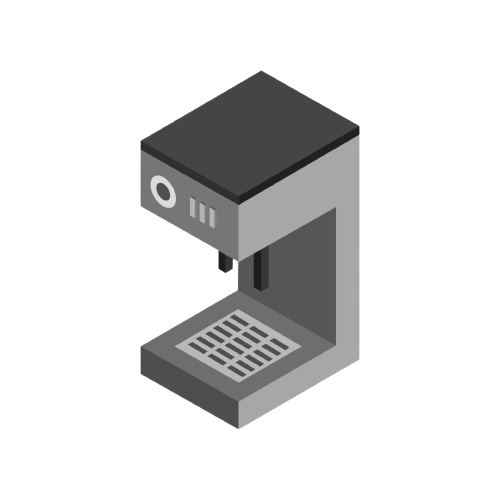
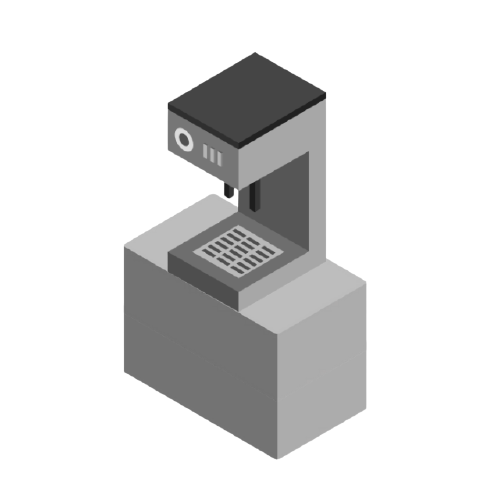
UI improvements

Changed region(s): [[0.24, 0.09, 0.75, 0.93]]

diff --git a/cafe.py b/cafe.py
@@ -5,14 +5,14 @@
 # waiter image: https://www.iconfinder.com/icons/6655714/barista_cartoon_girl_isometric_love_party_woman_icon
 # coffee machine image: https://www.vecteezy.com/vector-art/1983572-isometric-coffee-machine-illustrated-on-white-background
 # counter image: https://www.google.com/url?sa=i&url=https%3A%2F%2Fwww.freepik.com%2Fpremium-vector%2Fcoffee-house-isometric-illustration-coffeeshop-counter-tables-with-chairs-isolated-clipart_10912455.htm&psig=AOvVaw27CZ0GuBOpJH4o8THG1Cgs&ust=1637440249975000&source=images&cd=vfe&ved=0CAsQjRxqFwoTCPiCg7mipfQCFQAAAAAdAAAAABAP
-# table image: https://www.google.com/url?sa=i&url=https%3A%2F%2Fwww.vectorstock.com%2Froyalty-free-vector%2Fwood-table-icon-isometric-style-vector-27067678&psig=AOvVaw1FrR5KlcPIY6L6suhatLl-&ust=1637722650771000&source=images&cd=vfe&ved=0CAsQjRxqFwoTCNiRxsG_rfQCFQAAAAAdAAAAABAS
+# table image: https://www.iconfinder.com/icons/6656008/cartoon_folding_hand_isometric_retro_round_table_icon
 # sun image: https://www.flaticon.com/packs/nature-92
 # moon image: https://www.flaticon.com/premium-icon/moon_1888300?related_id=1888300&origin=pack
 # timer image: https://www.google.com/imgres?imgurl=https%3A%2F%2Fwww.xmple.com%2Fwallpaper%2Forange-blue-gradient-linear-1920x1080-c2-0000cd-ff8c00-a-45-f-14.svg&imgrefurl=https%3A%2F%2Fwww.xmple.com%2Fwallpaper%2Forange-blue-gradient-linear--c2-0000cd-ff8c00-a-45-f-14-image%2F&tbnid=Bn41Fc6ZA9X_JM&vet=12ahUKEwjag47pv630AhWLBc0KHW1cAkoQMygOegUIARDyAQ..i&docid=CCYxh7MBUtbZdM&w=1920&h=1080&itg=1&q=orange%20blue%20gradient&ved=2ahUKEwjag47pv630AhWLBc0KHW1cAkoQMygOegUIARDyAQ
 # people images: https://www.google.com/url?sa=i&url=https%3A%2F%2Fwww.dreamstime.com%2Fcreative-pack-isometric-people-flat-icons-providing-awesome-features-human-avatars-performing-various-activities-image125598730&psig=AOvVaw2gdVQ-_yHhfKPwtFq5cX0K&ust=1637723158290000&source=images&cd=vfe&ved=0CAsQjRxqFwoTCJjx9KvArfQCFQAAAAAdAAAAABAD
 # help image: https://www.flaticon.com/premium-icon/help_2550424?term=help%20button&page=1&position=80&page=1&position=80&related_id=2550424&origin=search
 # menu image: https://www.flaticon.com/premium-icon/help_2550424?term=help%20button&page=1&position=80&page=1&position=80&related_id=2550424&origin=search
-
+# plant image: https://www.flaticon.com/free-icon/plant_628283#
 # pathfinding: https://medium.com/@nicholas.w.swift/easy-a-star-pathfinding-7e6689c7f7b2
 
 # import modules
@@ -41,10 +41,9 @@ VIEW
 # draw canvas
 def cafeMode_redrawAll(app, canvas):
     # draw cafe grid
-    canvas.create_rectangle(0, 0, app.width, app.height, fill="lightblue", width=1)
-    drawLayout(app, canvas)
-    # draw menu
-    canvas.create_image(app.menu.x, app.menu.y, image=app.menu.img)
+    canvas.create_rectangle(0, 0, app.width, app.height, fill="#FFE9DF", width=1)
+    canvas.create_image(app.width/2, app.height/2, image=app.floorImg)
+    # drawLayout(app, canvas)
     # draw instructions 
     canvas.create_image(605, 35, image=app.helpImg)
     # draw score progress bar 
@@ -58,7 +57,6 @@ def cafeMode_redrawAll(app, canvas):
         canvas.create_line(590,120+(app.time/app.gameTime)*400,620,120+(app.time/app.gameTime)*400, fill="lightblue", width=2)
     canvas.create_image(605, 95, image=app.sunImg)
     canvas.create_image(605, 545, image=app.moonImg)
-    
 
     # draw barista
     canvas.create_image(app.barista.x, app.barista.y, image=app.barista.img)
@@ -72,9 +70,16 @@ def cafeMode_redrawAll(app, canvas):
     if app.closeCofMac:
         canvas.create_text(app.width/2, 35, text="Press enter to make drinks!")
     # draw tables
-    for i in range(0, random.randint(1,5)):
-        canvas.create_image(app.table.x, app.table.y, image=app.table.img)
-
+    for table in app.tables:
+        canvas.create_image(table.x, table.y, image=table.img)
+    canvas.create_image(345, 145, image=app.counterImg)
+    # draw plants
+    for x in range(95, 555, 50):
+        canvas.create_image(x, 95, image=app.plantImg)
+        canvas.create_image(x, 545, image=app.plantImg)
+     # draw menu
+    canvas.create_image(app.menu.x, app.menu.y, image=app.menu.img)
+    
     # draw order text
     if app.isOrdering:
         canvas.create_text(app.width/2, 35, text=app.currCustomer.order)
@@ -102,28 +107,28 @@ def getCellBounds(app, row, col):
 
     return [x1,y1,x2,y2]
 
-# helper: get cell from coordinates
-def getRow(app, y):
-    row = int((y - app.margin) / app.cellSize)
-    return row
-
-def getCol(app, x):
-    col = int((x - app.margin) / app.cellSize)
-    return col
 
 '''''''''''''''''''''''''''''''''
 CONTROLLER
 '''''''''''''''''''''''''''''''''
 def cafeMode_timerFired(app):
     # set up board
-    app.board = [([app.emptyColor] * app.cols) for row in range(app.rows)]
-    app.boardGrid = [([0] * app.cols) for row in range(app.rows)]
-    app.boardGrid[getRow(app, app.cofMac.y)][getCol(app, app.cofMac.x)] = 1
-    app.boardGrid[getRow(app, app.table.y-25)][getCol(app, app.table.x-25)] = 1
-    app.board[getRow(app, app.barista.y)][getCol(app, app.barista.x)] = "blue"
-    app.boardGrid[getRow(app, app.barista.y)][getCol(app, app.barista.x)] = 1
-    app.board[getRow(app, app.waiter.y)][getCol(app, app.waiter.x)] = "orchid"
-    app.boardGrid[getRow(app, app.waiter.y)][getCol(app, app.waiter.x)] = 1
+    # app.board = [([app.emptyColor] * app.cols) for row in range(app.rows)]
+    # app.boardGrid = [([0] * app.cols) for row in range(app.rows)]
+    # app.boardGrid[getRow(app, app.cofMac.y)][getCol(app, app.cofMac.x)] = 1
+    # for table in app.tables:
+    #     app.boardGrid[getRow(app, table.y)][getCol(app, table.x)] = 1
+    #     print(app.boardGrid)
+    # app.board[getRow(app, app.barista.y)][getCol(app, app.barista.x)] = "blue"
+    # app.boardGrid[getRow(app, app.barista.y)][getCol(app, app.barista.x)] = 1
+    # app.board[getRow(app, app.waiter.y)][getCol(app, app.waiter.x)] = "orchid"
+    # app.boardGrid[getRow(app, app.waiter.y)][getCol(app, app.waiter.x)] = 1
+    for row in range(10):
+        for col in range(10):
+            if row == getRow(app,app.activeChar.y) and col == getCol(app,app.activeChar.x):
+                app.board[row][col] = "blue"
+            else:
+                app.board[row][col] = app.emptyColor
 
     # indicate position on board as filled
     if app.currCustomer != None:
@@ -141,19 +146,23 @@ def cafeMode_timerFired(app):
         print(app.difficulty)
         print(app.drinksShown)
         print(app.scoreThresh)
-        # difficulty level changes if player becomes better/worse
+        # difficulty level changes if player becomes better/worse 
+        # changes number of drinks, score threshold, time order is shown, number of tables (obstacles)
         if app.difficulty[-1] == "easy":
             app.drinksShown = max(app.drinksShown-1, 2)
             app.scoreThresh = min(app.scoreThresh+0.1, 0.6)
             app.orderTime = min(app.orderTime+50, 600)
+            app.tableNo = max(app.tableNo-1, 2)
         if app.difficulty[-1] == "normal":
             app.drinksShown = 4
             app.scoreThresh = 0.4
             app.orderTime = 400
+            app.tableNo = 5
         if app.difficulty[-1] == "hard":
             app.drinksShown = min(app.drinksShown+1, 7)
             app.scoreThresh = max(app.scoreThresh-0.1, 0.2)
             app.orderTime = max(app.orderTime-50, 300)
+            app.tableNo = min(app.tableNo+1, 7)
 
     # count down timer increases
     app.time += 1
@@ -167,7 +176,7 @@ def cafeMode_timerFired(app):
     # customer enters
     if app.isEntering:
         app.currCustomer.x += 10
-        if app.currCustomer.x >= app.barista.x - 50:
+        if app.currCustomer.x >= app.barista.x - 100:
             app.isEntering = False
             app.isOrdering = True
     # show order 
@@ -269,7 +278,7 @@ def moveChar(app, drow, dcol):
 # helper fn: check if move can be made (not out of bounds)
 def moveIsLegal(app):
     char = app.activeChar
-    if char.x >= 70 and char.x <= 570 and char.y>= 70 and char.y<=570:
+    if (app.boardGrid[getRow(app, char.y)][getCol(app, char.x)] == 0) and char.x >= 70 and char.x <= 570 and char.y>= 120 and char.y<=570:
         return True
     return False
 
@@ -315,10 +324,10 @@ def pathfinding(app, start, end):
             node_position = (current_node.position[0] + new_position[0], current_node.position[1] + new_position[1])
 
             # check legality of move in board
-            if node_position[0] > 545 or node_position[0] < 95 or node_position[1] > 545 or node_position[1] < 95:
-                print("out of bounds")
-                continue
-            if app.boardGrid[getRow(app, node_position[0])][getCol(app, node_position[1])] != 0:
+            # if node_position[0] > 545 or node_position[0] < 95 or node_position[1] > 545 or node_position[1] < 95:
+            #     print("out of bounds")
+            #     continue
+            if app.boardGrid[getRow(app, node_position[0]-25)][getCol(app, node_position[1]-25)] != 0:
                 continue
 
             # Create new node

diff --git a/main.py b/main.py
@@ -39,7 +39,7 @@ def appStarted(app):
     app.day = 1
     app.difficulty = ["normal"]
 
-    app.mode = 'cafeMode'
+    app.mode = 'homeMode'
     print(app.mode)
     app.cameraOpen = False
     app.disp_cam = False
@@ -49,7 +49,9 @@ def appStarted(app):
     app.insImg = ImageTk.PhotoImage(app.loadImage("screens/instructions.png"))
     app.scoreInsImg = ImageTk.PhotoImage(app.loadImage("screens/scoring.png"))
     app.menuImg = ImageTk.PhotoImage(app.loadImage("screens/menu.png"))
-    
+    app.failImg = ImageTk.PhotoImage(app.loadImage("screens/fail.png"))
+    app.passImg = ImageTk.PhotoImage(app.loadImage("screens/pass.png"))
+
     # cafe grid layout
     app.rows, app.cols, app.cellSize, app.margin = cafeDimensions()
     app.emptyColor = "pink"
@@ -72,13 +74,17 @@ def appStarted(app):
     app.helpImg = ImageTk.PhotoImage(app.scaleImage(app.loadImage("images/help.png"),1/12))
 
     # furniture
-    cofMacImg = ImageTk.PhotoImage(app.scaleImage(app.loadImage("images/cofmac.png"),1/10))
-    app.cofMac = Furniture("cofMac", 495, 245, cofMacImg)
+    app.floorImg = ImageTk.PhotoImage(app.loadImage("images/floor.png"))
+    cofMacImg = ImageTk.PhotoImage(app.scaleImage(app.loadImage("images/cofmac.png"),1/6))
+    app.cofMac = Furniture("cofMac", 545, 245, cofMacImg)
     app.closeCofMac = False
-    tableImg = ImageTk.PhotoImage(app.scaleImage(app.loadImage("images/table.png"),1/10))
-    app.table = Furniture("table", 95+50*random.randint(0, 4), 95+50*random.randint(2, 8), tableImg)
-    menuImg = ImageTk.PhotoImage(app.scaleImage(app.loadImage("images/menu.png"),1/10))
-    app.menu = Furniture("menu", 495, 145, menuImg)
+    app.tableImg = ImageTk.PhotoImage(app.scaleImage(app.loadImage("images/coftable.png"), 0.8))
+    app.tables = []
+    app.tableNo = 5
+    app.counterImg = ImageTk.PhotoImage(app.loadImage("images/counter.png"))
+    menuImg = ImageTk.PhotoImage(app.scaleImage(app.loadImage("images/menu.png"),1/11))
+    app.menu = Furniture("menu", 545, 145, menuImg)
+    app.plantImg = ImageTk.PhotoImage(app.loadImage("images/plant.png"))
    
     # characters
     baristaImg = ImageTk.PhotoImage(app.scaleImage(app.loadImage("images/barista.png"),1/10))
@@ -158,9 +164,6 @@ def appStarted(app):
     
 def appStopped(app):
     app.sound.stop()
-
-def timerFired(app):
-    pass
 
 #     # with open(f"{app.username}.pkl", "wb") as outp:
 #     #     pickle.dump(app.user, outp, -1)

diff --git a/end.py b/end.py
@@ -11,17 +11,14 @@ from tkinter import *
 VIEW
 '''''''''''''''''''''''''''''''''
 def endMode_redrawAll(app, canvas):
-    canvas.create_rectangle(0, 0, app.width, app.height, fill = "peachpuff")
-    canvas.create_image(app.width/2, app.height*0.1, image=app.closedImg)
     if app.win:
-        canvas.create_text(app.width/2, app.height*0.25, text="Lovely! You did it!", font="Baskerville 22")
+        canvas.create_image(app.width/2, app.height/2, image=app.passImg)
     elif not app.win:
-        canvas.create_text(app.width/2, app.height*0.25, text="Aww... try again!", font="Baskerville 22")
-    
-    # show progress bar
-    canvas.create_rectangle(app.width/2-100, app.height*0.4-15, app.width/2+100, app.height*0.4+15, fill="lightgrey", width=0.5)
-    canvas.create_rectangle(app.width/2-100, app.height*0.4-15, app.width/2-100+(app.score/app.winScore)*200, app.height*0.4+15, fill="pink")
-    canvas.create_text(app.width/2, app.height*0.4, text="Progress...")
+        canvas.create_image(app.width/2, app.height/2, image=app.failImg)
+        # show progress bar
+        canvas.create_rectangle(app.width/2-100, app.height*0.5-15, app.width/2+100, app.height*0.5+15, fill="lightgrey", width=0.5)
+        canvas.create_rectangle(app.width/2-100, app.height*0.5-15, app.width/2-100+(app.score/app.winScore)*200, app.height*0.5+15, fill="pink")
+        canvas.create_text(app.width/2, app.height*0.5, text="Progress...")
     
     # go back to home page
     canvas.create_image(app.width*0.9, app.height*0.92, image=app.rightArrowImg)
@@ -36,7 +33,8 @@ def endMode_mousePressed(app, event):
     y = event.y
     if distance(x, y, app.width*0.92, app.height*0.92) < 30:
         app.mode = "homeMode"
-        app.day += 1
+        if app.win:
+            app.day += 1
         app.isStarting = True
         app.currCustomer = None
         app.time = 0

diff --git a/home.py b/home.py
@@ -3,6 +3,8 @@
 
 # import modules
 from cmu_112_graphics_openCV import *
+import random
+from classes import *
 
 '''''''''''''''''''''''''''''''''
 VIEW
@@ -22,10 +24,29 @@ def homeMode_mousePressed(app, event):
     (y >= app.height*0.87-29 and y <= app.height*0.87+29):
         app.mode = 'cafeMode'
 
+        # indicate furniture locations on board as non-empty
+        # coffee machine, menu, plants
+        app.boardGrid[getRow(app, app.cofMac.y)][getCol(app, app.cofMac.x)] = 1
+        app.boardGrid[getRow(app, app.menu.y)][getCol(app, app.menu.x)] = 1
+        app.boardGrid[1][5] = 1
+        app.boardGrid[0] = [1, 1, 1, 1, 1, 1, 1, 1, 1, 1]
+        app.boardGrid[9] = [1, 1, 1, 1, 1, 1, 1, 1, 1, 1]
+        # tables
+        for i in range(0, random.randint(1,app.tableNo)):
+            table = Furniture("table", 95+50*random.randint(0, 4), 95+50*random.randint(2, 8), app.tableImg)
+            app.tables.append(table)
+        for table in app.tables:
+            app.boardGrid[getRow(app, table.y)][getCol(app, table.x)] = 1
+            print(getRow(app, table.y), getCol(app, table.x))
+            print(table.y, table.x)
+        print(app.tables)
+        print(app.boardGrid)
+
 def homeMode_keyPressed(app, event):
     if event.key == "Return" or event.key == "Enter":
         app.mode = "cafeMode"
         # check if username is in app.usernames list, if not create a new user
         app.user = app.selectUser.get()
         print("entered")
+        
 

diff --git a/classes.py b/classes.py
@@ -74,6 +74,15 @@ class Sound(object):
     def stop(self):
         pygame.mixer.music.stop()
 
-# helper fn: check character distance to object
+# helper: check character distance to object
 def distance(x0, y0, x1, y1):
     return (((x0-x1)**2 + (y0-y1)**2)**0.5)
+
+# helper: get cell from coordinates
+def getRow(app, y):
+    row = int((y - app.margin) / app.cellSize)
+    return row
+
+def getCol(app, x):
+    col = int((x - app.margin) / app.cellSize)
+    return col

diff --git a/latteArt.py b/latteArt.py
@@ -43,6 +43,7 @@ def latteArtMode_mousePressed(app, event):
         app.mode = "cafeMode"
         app.isServing = True
         app.activeChar = app.waiter
+        app.waiter.x, app.waiter.y = (395, 395)
         # app.camera.release()
         app.disp_cam = False
       

diff --git a/score.py b/score.py
@@ -197,7 +197,6 @@ def scoreMode_mousePressed(app, event):
         app.drinkMade = dict()
 
         app.mode = "cafeMode"
-        app.isStarting = True
         
     
     
